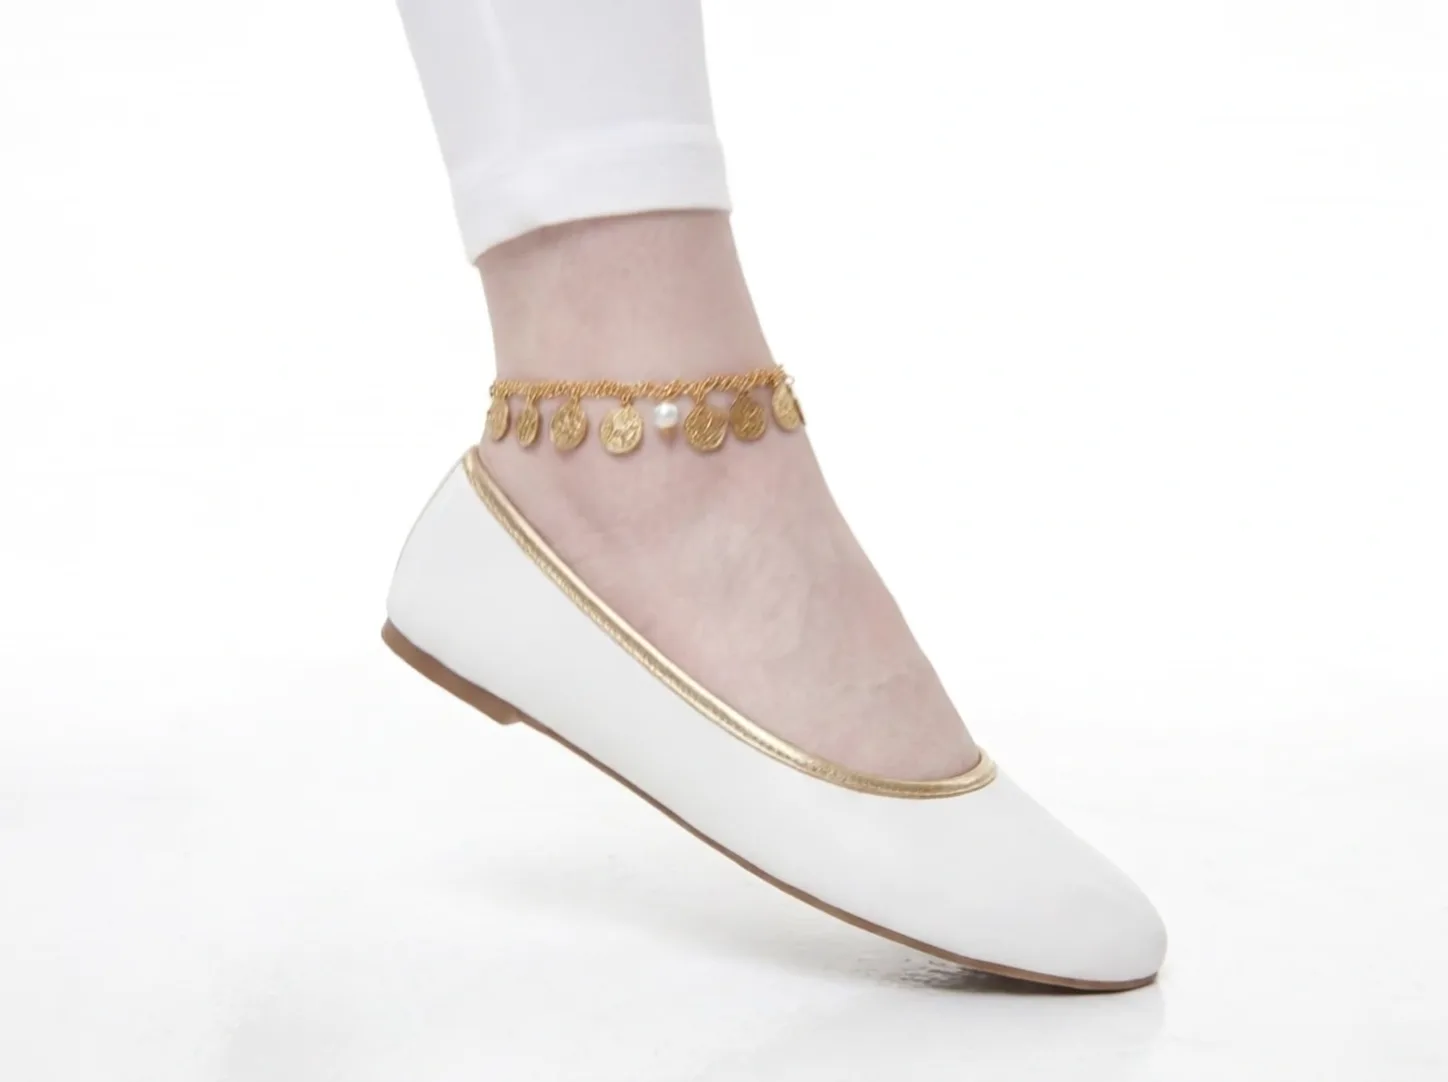
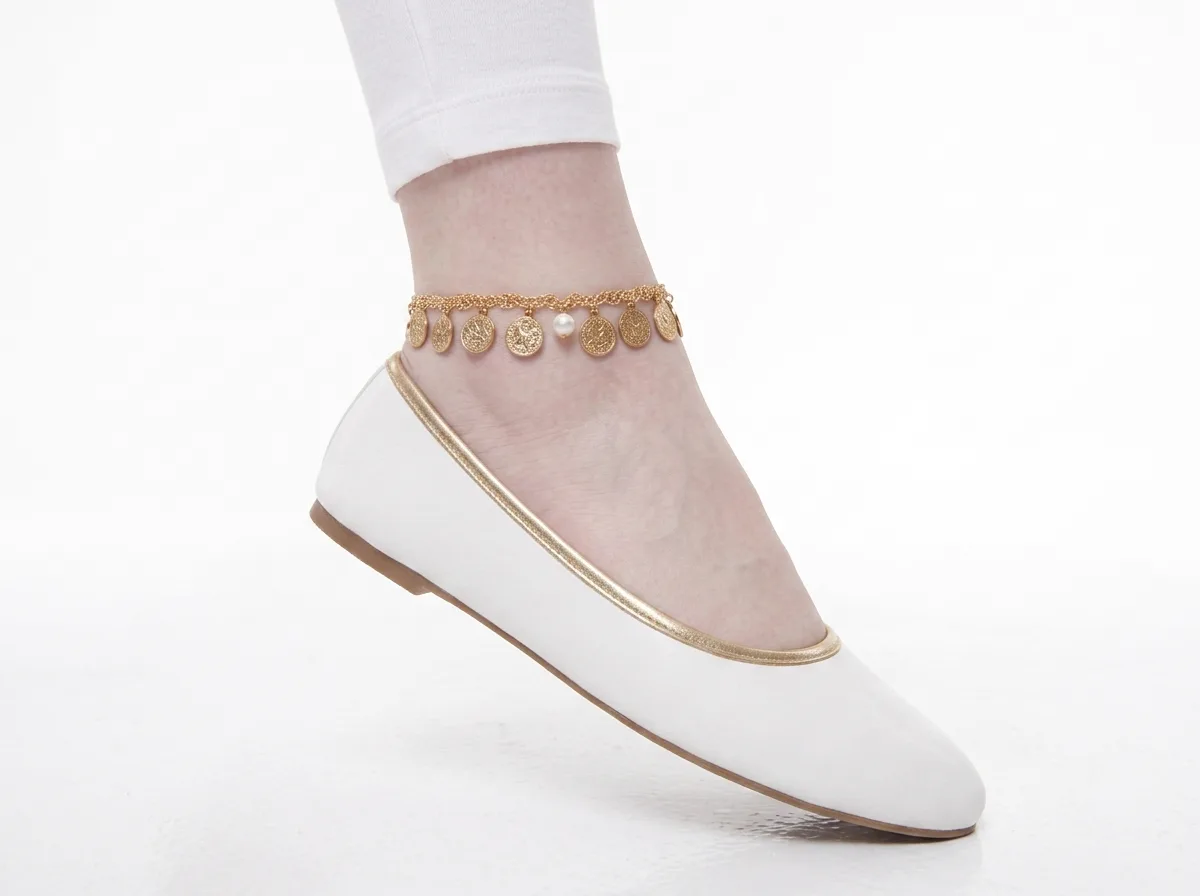
Use the real anklet photo for Akce Cascade in the gallery
Replaces the hero-frame stand-in with the studio shot. Focus moves from
0.410 to 0.459, measured on the anklet alone — including the shoe's gold
piping in the centroid dragged it off the piece.

diff --git a/index.html b/index.html
@@ -1776,7 +1776,7 @@
       price: "$1,150",
       img: "products/akce-cascade.webp",
       model: "models/akce-cascade.webp",
-      modelFocus: 0.41,
+      modelFocus: 0.459,
       desc: "Ottoman trade coins and a freshwater pearl strung on a double rope chain.",
       keyframes: [[102, 0.410, 0.560], [111, 0.427, 0.455], [120, 0.452, 0.374]],
       visible: [102, 120],
